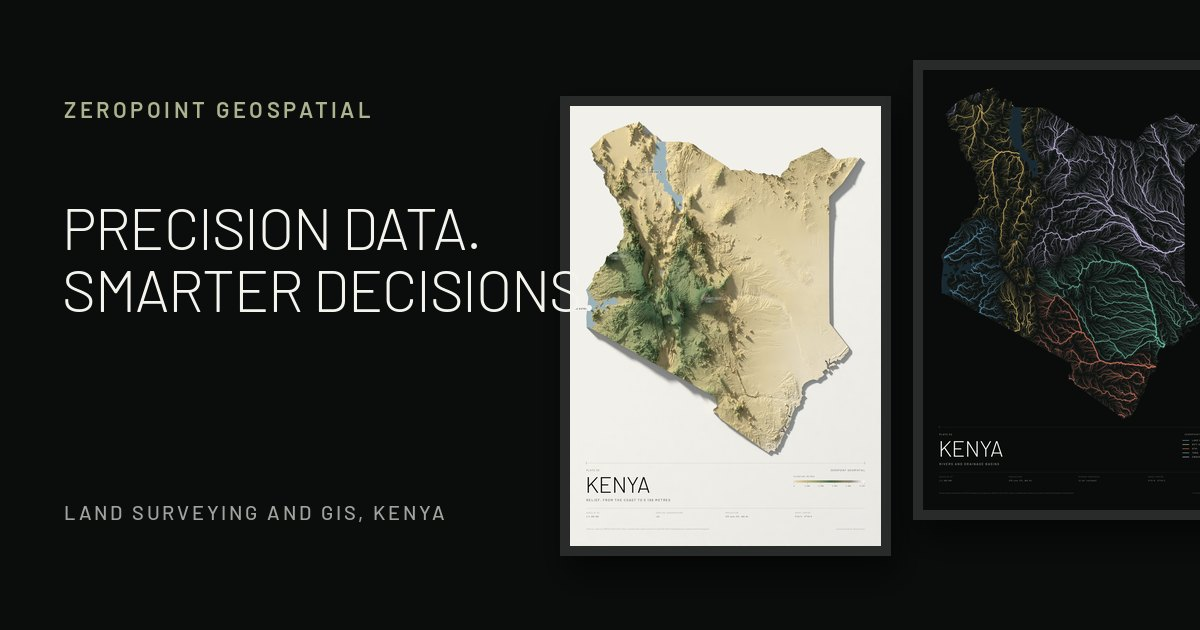
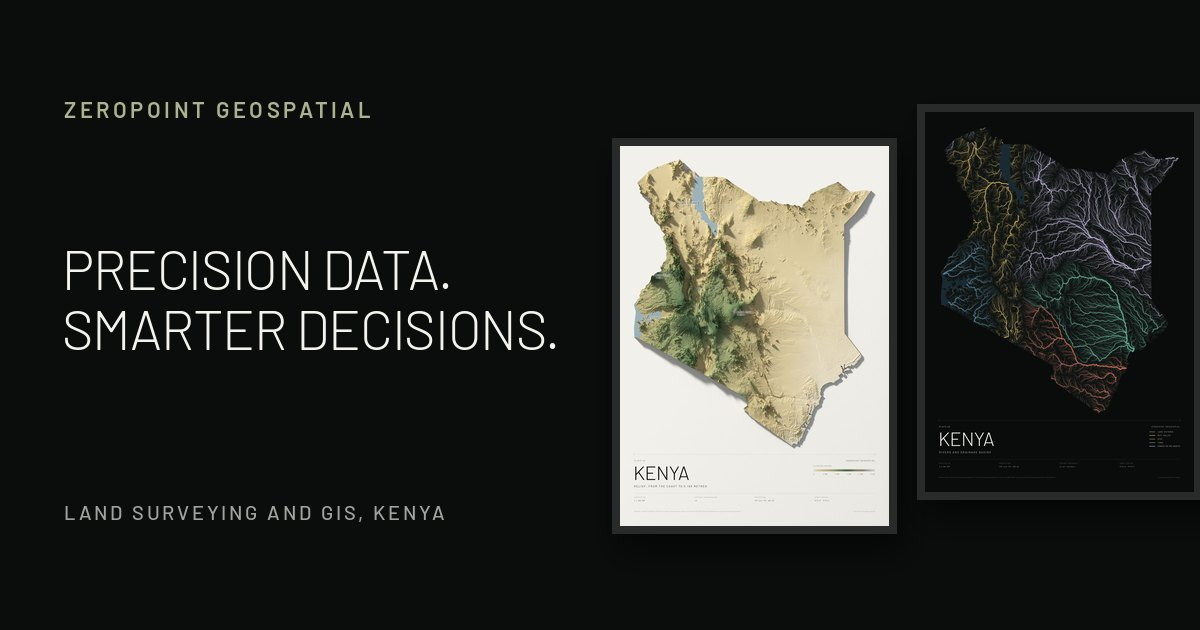
Fix post contact links, share images and shop hero (checkpoint)
Claude-Session: https://claude.ai/code/session_01JE2r52CKzidB17Lm19sXw4

Changed region(s): [[0.0308, 0.0905, 1.0, 0.9048]]

diff --git a/css/site.css b/css/site.css
@@ -463,8 +463,8 @@ button, input, select, textarea { font: inherit; color: inherit; }
 .frame[data-frame="silver"] { --moulding: #a9adab; --moulding-hi: #dfe2e0; }
 
 .shop-hero { position: relative; overflow: hidden; padding-block: clamp(56px, 8vw, 120px); }
-.shop-hero__grid { display: grid; grid-template-columns: minmax(0, 0.95fr) minmax(0, 1.05fr); gap: clamp(32px, 6vw, 88px); align-items: center; }
-.shop-hero .display { margin-top: 20px; font-size: clamp(2.8rem, 6.4vw, 5.6rem); }
+.shop-hero__grid { display: grid; grid-template-columns: minmax(0, 0.88fr) minmax(0, 1.12fr); gap: clamp(32px, 6vw, 88px); align-items: center; }
+.shop-hero .display { margin-top: 20px; font-size: clamp(2.5rem, 4.7vw, 4.3rem); }
 .shop-hero .lede { margin-top: 26px; }
 .shop-hero .btn-row { margin-top: 34px; }
 .shop-hero__wall { position: relative; display: grid; grid-template-columns: 1fr 1.18fr 1fr; gap: clamp(10px, 2vw, 26px); align-items: center; }

diff --git a/prints/index.html b/prints/index.html
@@ -75,7 +75,7 @@ wa_text: Hello ZeroPoint Geospatial, I would like to order a map print.
       <article class="card">
         <p class="label">Source</p>
         <h3 class="h3">Open, citable data</h3>
-        <p>Copernicus elevation models at 30 and 90 metres, OpenStreetMap roads, Kontur population and Hansen tree cover. The source and licence are printed on every plate.</p>
+        <p>Copernicus elevation models at 30 and 90 metres, OpenStreetMap roads, Kontur population and Hansen tree cover. The source and licence are printed on each atlas and landform plate.</p>
       </article>
       <article class="card">
         <p class="label">Processing</p>

diff --git a/index.html b/index.html
@@ -37,7 +37,7 @@ schema:
   </div>
   <dl class="wrap hero__facts">
     <div><dt>6</dt><dd>Core survey services</dd></div>
-    <div><dt>RTK / GNSS</dt><dd>Centimetre-level workflows</dd></div>
+    <div><dt>RTK / GNSS</dt><dd>GNSS-ready workflows</dd></div>
     <div><dt>Kenya-wide</dt><dd>Based in Nairobi</dd></div>
     <div><dt>CAD, PDF, GIS</dt><dd>Delivery formats</dd></div>
   </dl>
@@ -88,6 +88,7 @@ schema:
 </section>
 
 <section class="band band--ink" id="packs">
+  <span id="projects"></span>
   <div class="wrap">
     <div class="sec-head">
       <p class="label"><span class="num">03</span>Survey packs</p>

diff --git a/_layouts/print.html b/_layouts/print.html
@@ -28,7 +28,7 @@ layout: default
 
       <div class="print__price"><strong>{{ shop.price }}</strong><span>{{ shop.price_note }}</span></div>
 
-      <form id="print-order" data-print="{{ fullname | escape }}" onsubmit="return false">
+      <form id="print-order" data-print="{{ fullname | escape }}">
         <fieldset class="options">
           <legend>Size</legend>
           <div class="options__row">

diff --git a/js/site.js b/js/site.js
@@ -92,6 +92,7 @@
         encodeURIComponent('Print order: ' + name) + '&body=' + encodeURIComponent(line);
     }
     order.addEventListener('change', update);
+    order.addEventListener('submit', function (e) { e.preventDefault(); });
     update();
 
     var zoom = document.getElementById('zoom');

diff --git a/tools/site_assets.py b/tools/site_assets.py
@@ -172,22 +172,22 @@ def share_card(slug, im):
 
 
 def share_site():
+    """1200 x 630 social previews for the site and for the shop."""
     from common import draw_text, font
-    for name, slugs in (("og-prints", ["kenya-rivers", "kenya-population", "kenya-roads"]),
-                        ("og-image", ["kenya-relief", "kenya-rivers", "kenya-forest"])):
+    for name, slugs in (("og-prints", ["kenya-rivers", "kenya-population"]),
+                        ("og-image", ["kenya-relief", "kenya-rivers"])):
         card = Image.new("RGB", (1200, 630), INK)
-        x = 560
+        x = 612
         for i, s in enumerate(slugs):
-            x += hang(card, master(s), x, 96 + (0, -36, 0)[i], 440, frame=(40, 43, 41)) + 22
+            x += hang(card, master(s), x, 138 - 34 * i, 380, frame=(40, 43, 41)) + 20
         d = ImageDraw.Draw(card)
         draw_text(d, (64, 118), "ZEROPOINT GEOSPATIAL", font("Barlow-600", 22), (170, 181, 144), 0.16)
-        big = font("Barlow-300", 78)
-        lines = ("KENYA, MAPPED", "FOR THE WALL") if name == "og-prints" else ("PRECISION DATA.", "SMARTER DECISIONS.")
-        if name == "og-image":
-            big = font("Barlow-300", 58)
+        if name == "og-prints":
+            big, lines, sub = font("Barlow-300", 66), ("KENYA, MAPPED", "FOR THE WALL"), "Map prints from real data"
+        else:
+            big, lines, sub = font("Barlow-300", 54), ("PRECISION DATA.", "SMARTER DECISIONS."), "Land surveying and GIS, Kenya"
         for i, t in enumerate(lines):
-            draw_text(d, (62, 250 + i * (big.size + 4)), t, big, (244, 243, 238), -0.02)
-        sub = "Map prints from real data" if name == "og-prints" else "Land surveying and GIS, Kenya"
+            draw_text(d, (62, 290 + i * (big.size + 6)), t, big, (244, 243, 238), -0.02)
         draw_text(d, (64, 520), sub.upper(), font("Barlow-500", 20), (160, 163, 158), 0.14)
         card.save(IMG / f"{name}.jpg", quality=86, optimize=True)
 

diff --git a/tools/prints/relief.py b/tools/prints/relief.py
@@ -59,7 +59,7 @@ PLATES = {
         scale=2_400_000, source="glo90", cell=250, zex=22.0, country=True,
         ticks=[0, 1000, 2000, 3000, 4000, 5199], vrange=(0, 5199),
         labels=[("Mount Kenya", "5 199 m", 37.3083, -0.1517, "right", 6000),
-                ("Mount Elgon", "4 321 m", 34.56, 1.12, "right", 8000),
+                ("Mount Elgon", None, 34.56, 1.12, "right", 8000),
                 ("Lake Turkana", None, 36.05, 3.55, "left", 0),
                 ("Lake Victoria", None, 34.2, -0.35, "right", 0)]),
     "kenya-forest": dict(

diff --git a/tools/prints/README.md b/tools/prints/README.md
@@ -61,9 +61,12 @@ repository root) rebuilds the web previews in `assets/prints/`.
 the sea, the sheet edge and the terminal lakes (Priority-Flood), routes flow
 by steepest descent and accumulates upstream area. Closed basins such as
 the Rift lakes, the Chalbi and the calderas are kept open rather than
-filled. Each stream is then labelled by the outlet it reaches. The basin
-areas this gives for Kenya are within a few per cent of the published
-figures for the five drainage basins.
+filled. Each stream is then labelled by the outlet it reaches and grouped
+into Kenya's five drainage basins. Areas inside Kenya from the current run:
+Lake Victoria 51 100 km2, Rift Valley 130 400 km2, Athi 67 300 km2, Tana
+116 300 km2, Ewaso Ng'iro North 224 600 km2. The Athi and Tana split along
+the coast is by river mouth, which is not how the official catchment
+boundary is drawn there, so check before quoting these.
 
 **Relief and population.** `render3d.py` builds a mesh and path-traces it
 with Mitsuba 3: one soft sun from the north-west, an even sky, a paper

diff --git a/_prints/kenya-rivers.md b/_prints/kenya-rivers.md
@@ -17,4 +17,4 @@ facts:
 ---
 We did not download this river network. We computed it. Fifty-one million elevation cells were flooded and routed downhill to find where water collects, with the Rift lakes, the Chalbi and the calderas kept as closed basins the way they are on the ground.
 
-Line weight follows the size of the catchment above each point. Colour shows which of Kenya's five drainage basins the water ends up in: Lake Victoria, the Rift Valley, the Athi, the Tana and the Ewaso Ng'iro North. The basin areas that fall out of the model sit within a few per cent of the official figures.
+Line weight follows the size of the catchment above each point. Colour shows which of Kenya's five drainage basins the water ends up in: Lake Victoria, the Rift Valley, the Athi, the Tana and the Ewaso Ng'iro North.

diff --git a/_posts/2026-05-12-why-your-map-coordinates-might-be-wrong.md b/_posts/2026-05-12-why-your-map-coordinates-might-be-wrong.md
@@ -132,4 +132,4 @@ For any work involving official land documents, work with a licensed surveyor wh
 
 ---
 
-*ZeroPoint Geospatial delivers all survey data in clearly documented coordinate systems, with datum transformation performed where required. We provide data in your preferred format and CRS. [Contact us](/contact) for survey and GIS services.*
+*ZeroPoint Geospatial delivers all survey data in clearly documented coordinate systems, with datum transformation performed where required. We provide data in your preferred format and CRS. [Contact us](../../#contact) for survey and GIS services.*

diff --git a/_posts/2026-04-28-gnss-explained.md b/_posts/2026-04-28-gnss-explained.md
@@ -133,4 +133,4 @@ That accuracy matters whenever the coordinates will be used to make decisions ab
 
 ---
 
-*ZeroPoint Geospatial uses multi-constellation RTK GNSS equipment for all survey work, delivering centimetre-accurate positioning tied to the national coordinate framework. [Get in touch](/contact) for a quote on your project.*
+*ZeroPoint Geospatial uses multi-constellation RTK GNSS equipment for all survey work, delivering centimetre-accurate positioning tied to the national coordinate framework. [Get in touch](../../#contact) for a quote on your project.*

diff --git a/_posts/2026-05-19-drone-mapping-vs-traditional-survey.md b/_posts/2026-05-19-drone-mapping-vs-traditional-survey.md
@@ -117,4 +117,4 @@ The answers will tell you quickly whether you are dealing with a competent firm 
 
 ---
 
-*ZeroPoint Geospatial operates both drone mapping and RTK survey services across Kenya. We will always recommend the method that is right for your project, not the one that is easiest for us. [Request a quote](/contact).*
+*ZeroPoint Geospatial operates both drone mapping and RTK survey services across Kenya. We will always recommend the method that is right for your project, not the one that is easiest for us. [Request a quote](../../#contact).*
